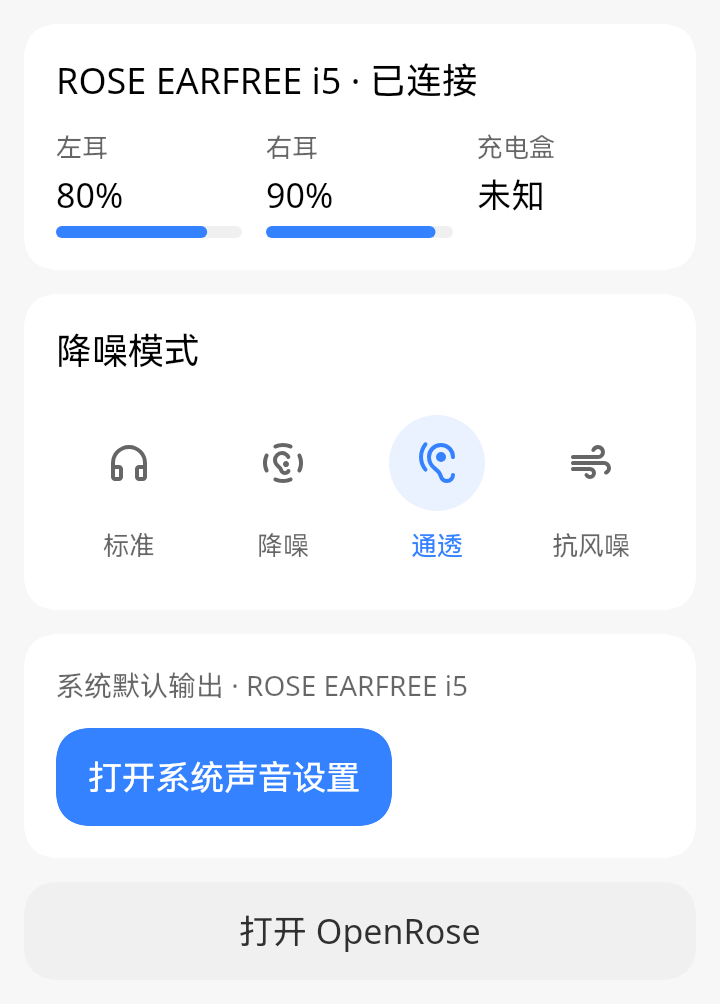
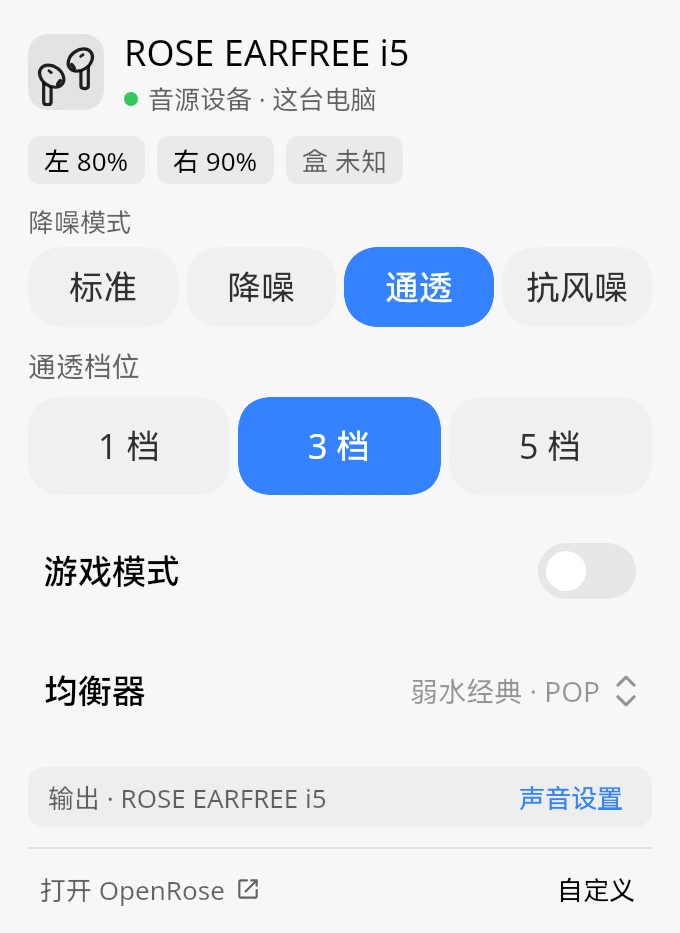
docs(website): sync docs and tray showcase with current app behavior
- Re-render website/src/assets/showcase/tray.webp from the redesigned TrayPanel UI and update FeatureShowcase/CirculationPreview captions.
- Align ZH and EN docs with Windows desktop support, desktop background control toggle, full LAN circulation remote controls/data exchange, Fusion Device Center Additional Settings default, Windows troubleshooting/build prerequisites, and Backdrop acknowledgement.

diff --git a/website/src/content/docs/en/reference/permissions.md b/website/src/content/docs/en/reference/permissions.md
@@ -11,7 +11,7 @@ The Android app process controls the earphones over local Bluetooth. The APK doe
 
 - The phone module host and desktop app publish their device name, discovery ID and service port using mDNS. Devices on the same LAN can discover the service.
 - Display a pairing code on the computer, then scan it or enter its six digits on the phone. The code is valid for two minutes and is consumed after one successful pairing. Both devices save the peer identity and authenticate subsequent connections using TLS.
-- Paired peers can read the supported earphones’ model, battery levels, audio source, control state and noise mode. Noise changes and manual handoffs also exchange a target device identifier, a command and its result. The operating system plays audio over Bluetooth.
+- Paired peers can read the supported earphones’ model, battery levels, audio source, control state, noise mode and levels, EQ presets, and game mode. Remote setting changes and manual handoffs also exchange a target device identifier, a command, and its result. The operating system plays audio over Bluetooth.
 - Remove the peer under Settings → Handoff pairing (设置 → 流转配对) on either device to revoke its local authorization.
 
 ## Android permissions
@@ -47,7 +47,7 @@ Used only after you turn on [background control](../../guides/background-control
 - Local app and system integration clients use an authenticated IPC endpoint. If the host refuses app authorization, the Status page shows "系统蓝牙宿主拒绝了本应用" (the system Bluetooth host refused this app).
 - Only Restart scopes (重启作用域) needs root; nothing else does.
 
-## Linux desktop
+## Desktop (Linux and Windows)
 
-- Scans for and connects to the earphones through BlueZ on the system D-Bus; no root needed.
-- When Launch at login (登录时启动) on the Settings page is on, an autostart entry is registered with the desktop environment; turning it off removes it.
+- The Linux app scans for and connects to the earphones through BlueZ on the system D-Bus; the Windows app uses the bundled WinRT Bluetooth helper. Neither needs root or administrator rights.
+- When Launch at login (登录时启动) on the Settings page is on, an autostart entry is registered for the current user's desktop environment or Windows startup items; turning it off removes it.

diff --git a/website/src/content/docs/reference/permissions.md b/website/src/content/docs/reference/permissions.md
@@ -11,7 +11,7 @@ Android 应用进程通过本机蓝牙控制耳机，APK 没有申请 `INTERNET`
 
 - 手机模块宿主和桌面端通过 mDNS 发布设备名称、发现标识与服务端口。同一局域网中的设备可以发现这项服务。
 - 在电脑显示配对码，在手机扫码或输入六位码。配对码两分钟内有效，成功使用一次后失效。两端保存设备身份，用 TLS 验证后续连接。
-- 已配对对端可以读取受支持耳机的型号、电量、音源、控制状态和降噪模式。切换降噪或手动流转时，两端还会交换目标设备标识、命令及执行结果。音频由系统蓝牙播放。
+- 已配对对端可以读取受支持耳机的型号、电量、音源、控制状态、降噪模式与档位、EQ 预设和游戏模式。远程修改这些设置或手动流转时，两端还会交换目标设备标识、命令及执行结果。音频由系统蓝牙播放。
 - 在任一端的「设置 → 流转配对」解除配对，即撤销本机对该对端的授权。
 
 ## Android 权限
@@ -47,6 +47,7 @@ Android 应用进程通过本机蓝牙控制耳机，APK 没有申请 `INTERNET`
 - 本机控制与系统入口通过认证的跨进程接口访问宿主。应用授权被拒绝时，“状态”页会显示“系统蓝牙宿主拒绝了本应用”。
 - 只有“重启作用域”操作需要 root，其余功能都不需要。
 
-## Linux 桌面版
+## 桌面版（Linux 与 Windows）
 
-- “设置”页的“登录时启动”开启时，会在桌面环境中注册自启动项；关闭即移除。
+- Linux 版通过系统 D-Bus 上的 BlueZ 扫描并连接耳机，Windows 版通过内置 WinRT 蓝牙助手访问系统蓝牙，均不需要管理员或 root 权限。
+- “设置”页的“登录时启动”开启时，会在当前用户的桌面环境或 Windows 启动项中注册自启动项；关闭即移除。

diff --git a/website/src/content/docs/en/development/contributing.md b/website/src/content/docs/en/development/contributing.md
@@ -5,7 +5,7 @@ description: Build OpenRose from source, plus developer docs, license, and ackno
 
 ## Building from source
 
-Requires JDK 21 and the Android SDK (Platform 37, Build Tools 37.0.0; set `ANDROID_HOME` or `sdk.dir` in `local.properties`). On Windows, replace `./gradlew` with `.\gradlew.bat`.
+Requires JDK 21 and the Android SDK (Platform 37, Build Tools 37.0.0; set `ANDROID_HOME` or `sdk.dir` in `local.properties`). Building the Windows desktop app also requires Rust stable (MSVC toolchain) and Visual Studio C++ Build Tools. On Windows, replace `./gradlew` with `.\gradlew.bat`.
 
 ```bash
 git clone https://github.com/DOHEX/OpenRose.git
@@ -39,6 +39,7 @@ OpenRose is licensed under [GPL-3.0-or-later](https://github.com/DOHEX/OpenRose/
 
 - [OppoPods](https://github.com/1812z/OppoPods): the HyperOS integration draws on its approach
 - [Miuix](https://github.com/compose-miuix-ui/miuix): UI library behind the Miuix style
+- [Backdrop](https://github.com/Kyant0/AndroidLiquidGlass): liquid glass effect library behind the Miuix floating bottom bar
 - [LSPosed](https://github.com/LSPosed/LSPosed): Xposed framework that runs the system-integration module
 - [libxposed API](https://github.com/libxposed/api): Xposed API used by the module
 - [Compose Multiplatform](https://github.com/JetBrains/compose-multiplatform): cross-platform UI framework

diff --git a/website/src/content/docs/development/contributing.md b/website/src/content/docs/development/contributing.md
@@ -5,7 +5,7 @@ description: 从源码构建 OpenRose，以及开发文档、许可与致谢。
 
 ## 从源码构建
 
-需要 JDK 21 和 Android SDK（Platform 37、Build Tools 37.0.0，设置 `ANDROID_HOME` 或 `local.properties` 的 `sdk.dir`）。Windows 下把 `./gradlew` 换成 `.\gradlew.bat`。
+需要 JDK 21 和 Android SDK（Platform 37、Build Tools 37.0.0，设置 `ANDROID_HOME` 或 `local.properties` 的 `sdk.dir`）。构建 Windows 桌面版还需 Rust stable（MSVC 工具链）和 Visual Studio C++ Build Tools。Windows 下把 `./gradlew` 换成 `.\gradlew.bat`。
 
 ```bash
 git clone https://github.com/DOHEX/OpenRose.git
@@ -37,6 +37,7 @@ OpenRose 以 [GPL-3.0-or-later](https://github.com/DOHEX/OpenRose/blob/main/LICE
 
 - [OppoPods](https://github.com/1812z/OppoPods)：HyperOS 系统集成参考了它的实现思路
 - [Miuix](https://github.com/compose-miuix-ui/miuix)：Miuix 界面风格使用的组件库
+- [Backdrop](https://github.com/Kyant0/AndroidLiquidGlass)：Miuix 液态玻璃底栏使用的效果库
 - [LSPosed](https://github.com/LSPosed/LSPosed)：运行系统集成模块的 Xposed 框架
 - [libxposed API](https://github.com/libxposed/api)：模块使用的 Xposed API
 - [Compose Multiplatform](https://github.com/JetBrains/compose-multiplatform)：跨平台界面框架

diff --git a/website/src/content/docs/en/guides/troubleshooting.md b/website/src/content/docs/en/guides/troubleshooting.md
@@ -107,3 +107,12 @@ Fusion Device Center showing Off for the noise mode or hiding battery levels are
 | 托盘图标：不可用 (tray icon unavailable) | Install `libsystemd`; GNOME needs the AppIndicator extension |
 
 If the tray panel appears in the wrong place on niri, Hyprland, Sway, or similar, see [Desktop](../desktop/#window-rules-for-tiling-compositors).
+
+## Windows desktop
+
+| Message | What to do |
+| --- | --- |
+| Windows 蓝牙适配器不支持 BLE (Bluetooth adapter does not support BLE) | Make sure the computer's Bluetooth adapter supports BLE and is working in Device Manager |
+| 缺少 OpenRose Windows 蓝牙组件 (missing Windows Bluetooth helper) | Reinstall the Windows `.msi` package; when running from source, build `platform/windows/native` first |
+| Windows 蓝牙状态不可用 / Windows 蓝牙组件已退出 (Bluetooth state unavailable / helper exited) | Check that the Windows Bluetooth service is running and reopen OpenRose; allow `openrose-winrt.exe` if security software blocked it |
+| Windows 未找到可操作的蓝牙音频端点 (no operable Bluetooth audio endpoint found) | Confirm the earphones are paired in Windows Settings → Bluetooth & devices and not disabled in Sound settings |

diff --git a/website/src/content/docs/en/reference/supported-earphones.md b/website/src/content/docs/en/reference/supported-earphones.md
@@ -35,7 +35,7 @@ OpenRose covers all 48 Bluetooth earphone configurations in RoseLink 3.8.6 and r
 
 ## Notes
 
-- The **control transport** is the Bluetooth link carrying the control connection. For models that support both, each connection picks one automatically from the model's capabilities, platform conditions, and the "Force BLE" preference; the preference only affects the next connection. The Linux app supports BLE only.
+- The **control transport** is the Bluetooth link carrying the control connection. For models that support both, each connection picks one automatically from the model's capabilities, platform conditions, and the "Force BLE" preference; the preference only affects the next connection. The desktop apps (Linux and Windows) support BLE only.
 - **Hardware branches with the same retail name** are identified by advertisement prefixes. When the name is not enough to tell them apart, OpenRose does not pick a branch automatically.
 - **Available settings** depend on the model and firmware version: settings without research evidence are neither shown nor written.
 

diff --git a/website/src/content/docs/guides/troubleshooting.md b/website/src/content/docs/guides/troubleshooting.md
@@ -107,3 +107,12 @@ OpenRose 每次写入设置后都会读回耳机的实际状态：
 | 托盘图标：不可用 | 安装 `libsystemd`；GNOME 需要启用 AppIndicator 扩展 |
 
 托盘面板在 niri、Hyprland、Sway 等桌面上位置不对时，见[桌面版](../desktop/#平铺式合成器的窗口规则)。
+
+## Windows 桌面版
+
+| 提示 | 处理 |
+| --- | --- |
+| Windows 蓝牙适配器不支持 BLE | 确认电脑内置或外接的蓝牙适配器支持低功耗蓝牙（BLE），并在设备管理器中状态正常 |
+| 缺少 OpenRose Windows 蓝牙组件 | 重新安装 Windows `.msi` 安装包；从源码运行时需先完成 `platform/windows/native` 的构建 |
+| Windows 蓝牙状态不可用 / Windows 蓝牙组件已退出 | 检查系统蓝牙服务是否运行，重开 OpenRose；若被安全软件拦截了 `openrose-winrt.exe`，请放行 |
+| Windows 未找到可操作的蓝牙音频端点 | 确认耳机已在 Windows「设置 → 蓝牙和设备」配对，并在声音设置中未被禁用 |

diff --git a/website/src/content/docs/en/reference/features.md b/website/src/content/docs/en/reference/features.md
@@ -33,7 +33,7 @@ No root needed; see [Background control](../../guides/background-control/).
 Requires an Xposed framework; see [HyperOS integration](../../guides/hyperos-integration/).
 
 - Connection prompts and earphone status shown through the system island and focus notifications; tapping the focus notification opens OpenRose, the system headset page, RoseLink, or the quick panel
-- Earbud battery and noise mode switching in Fusion Device Center; its "Additional Settings" opens OpenRose directly
+- Earbud battery and noise mode switching in Fusion Device Center; when set under Settings → Additional Settings entry (附加设置入口), "Additional Settings" opens OpenRose directly
 - Module control: the system Bluetooth process connects to the earphones, and OpenRose does not need to be open
 - Headset circulation (experimental): move the earphones from one HyperOS audio source device to another through Fusion Device Center
 

diff --git a/website/src/content/docs/reference/supported-earphones.md b/website/src/content/docs/reference/supported-earphones.md
@@ -35,7 +35,7 @@ OpenRose 已接入 RoseLink 3.8.6 的全部 48 个蓝牙耳机配置，并保留
 
 ## 说明
 
-- **控制传输**是承载控制连接的蓝牙链路。支持两种的型号，每次连接时依型号能力、平台条件和“强制使用 BLE”偏好自动选择；该偏好只影响下一次连接。Linux 版只支持 BLE。
+- **控制传输**是承载控制连接的蓝牙链路。支持两种的型号，每次连接时依型号能力、平台条件和“强制使用 BLE”偏好自动选择；该偏好只影响下一次连接。桌面版（Linux 与 Windows）只支持 BLE。
 - **同名硬件分支**通过广播前缀识别。名称不足以确定分支时，OpenRose 不会自动选择。
 - **可用的设置**随型号和固件版本变化：没有研究证据的设置不会出现在界面上，也不会被写入。
 
